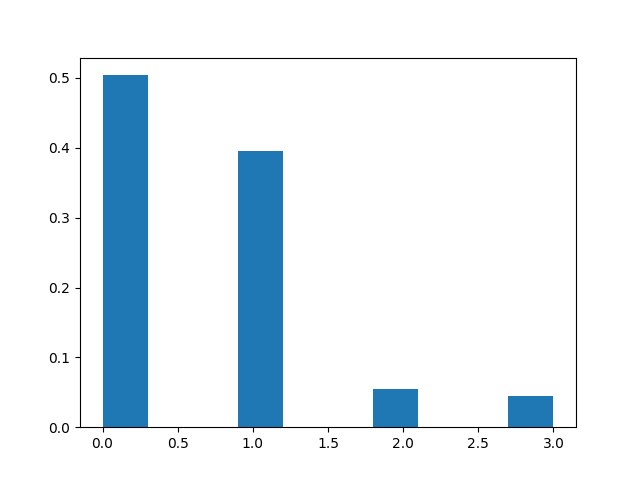
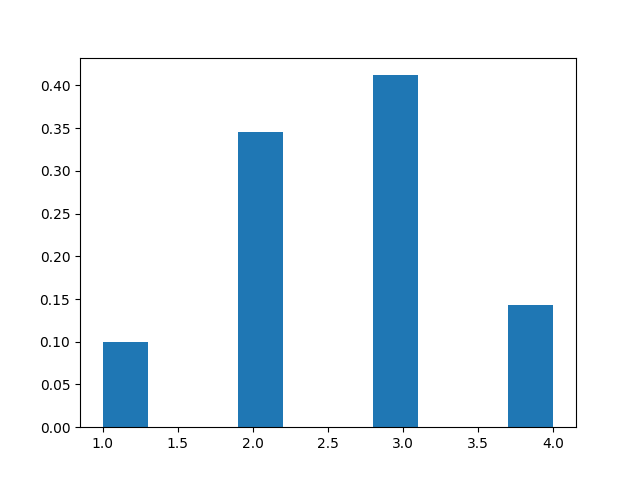
changed back to older counting convention. re-rendered hist

diff --git a/Assignment 9/CLIENT_PROGRAM.java b/Assignment 9/CLIENT_PROGRAM.java
@@ -20,7 +20,7 @@ public class CLIENT_PROGRAM{
             int result = 0;
 
             if(requested_id.equals(my_id)){
-                result = 1;
+                result = -1;
             }else{
                 result = findNode(requested_id);
             }
@@ -114,7 +114,6 @@ public class CLIENT_PROGRAM{
         reply = queryServer(requested_id, received_ip);
         reply_tokens = parseReply(reply);
 
-        num_hops++;
         return num_hops;
     }
 
